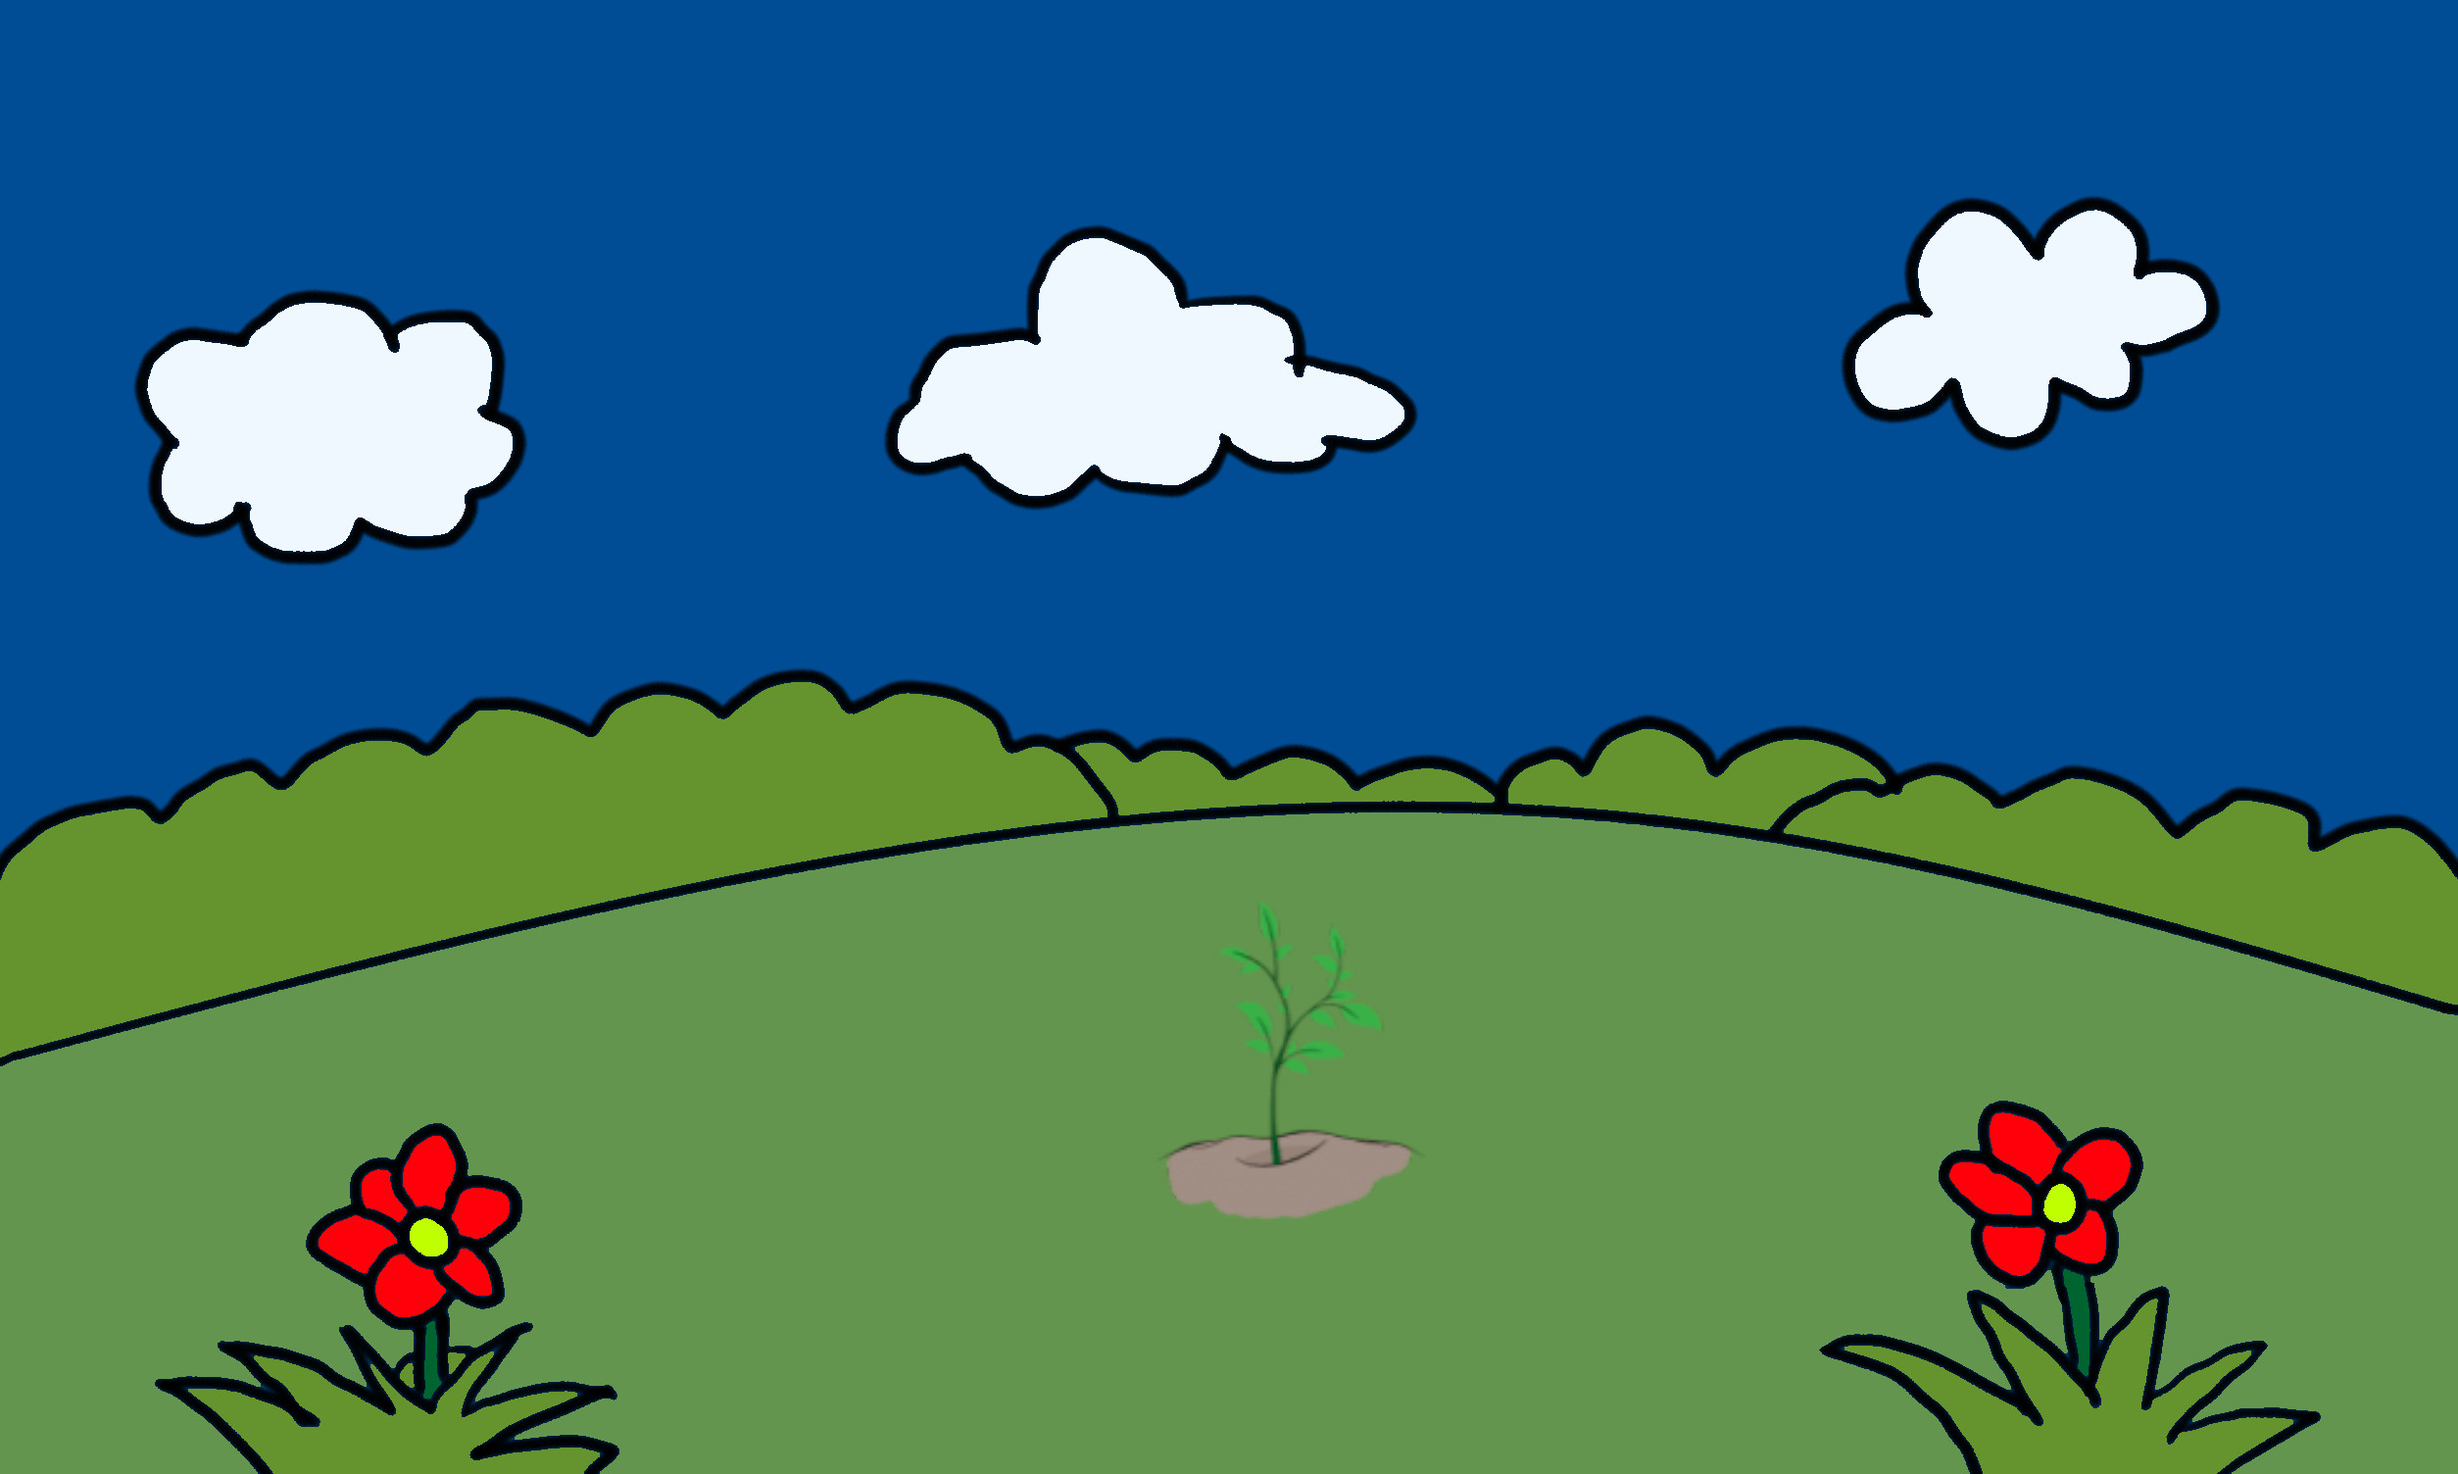
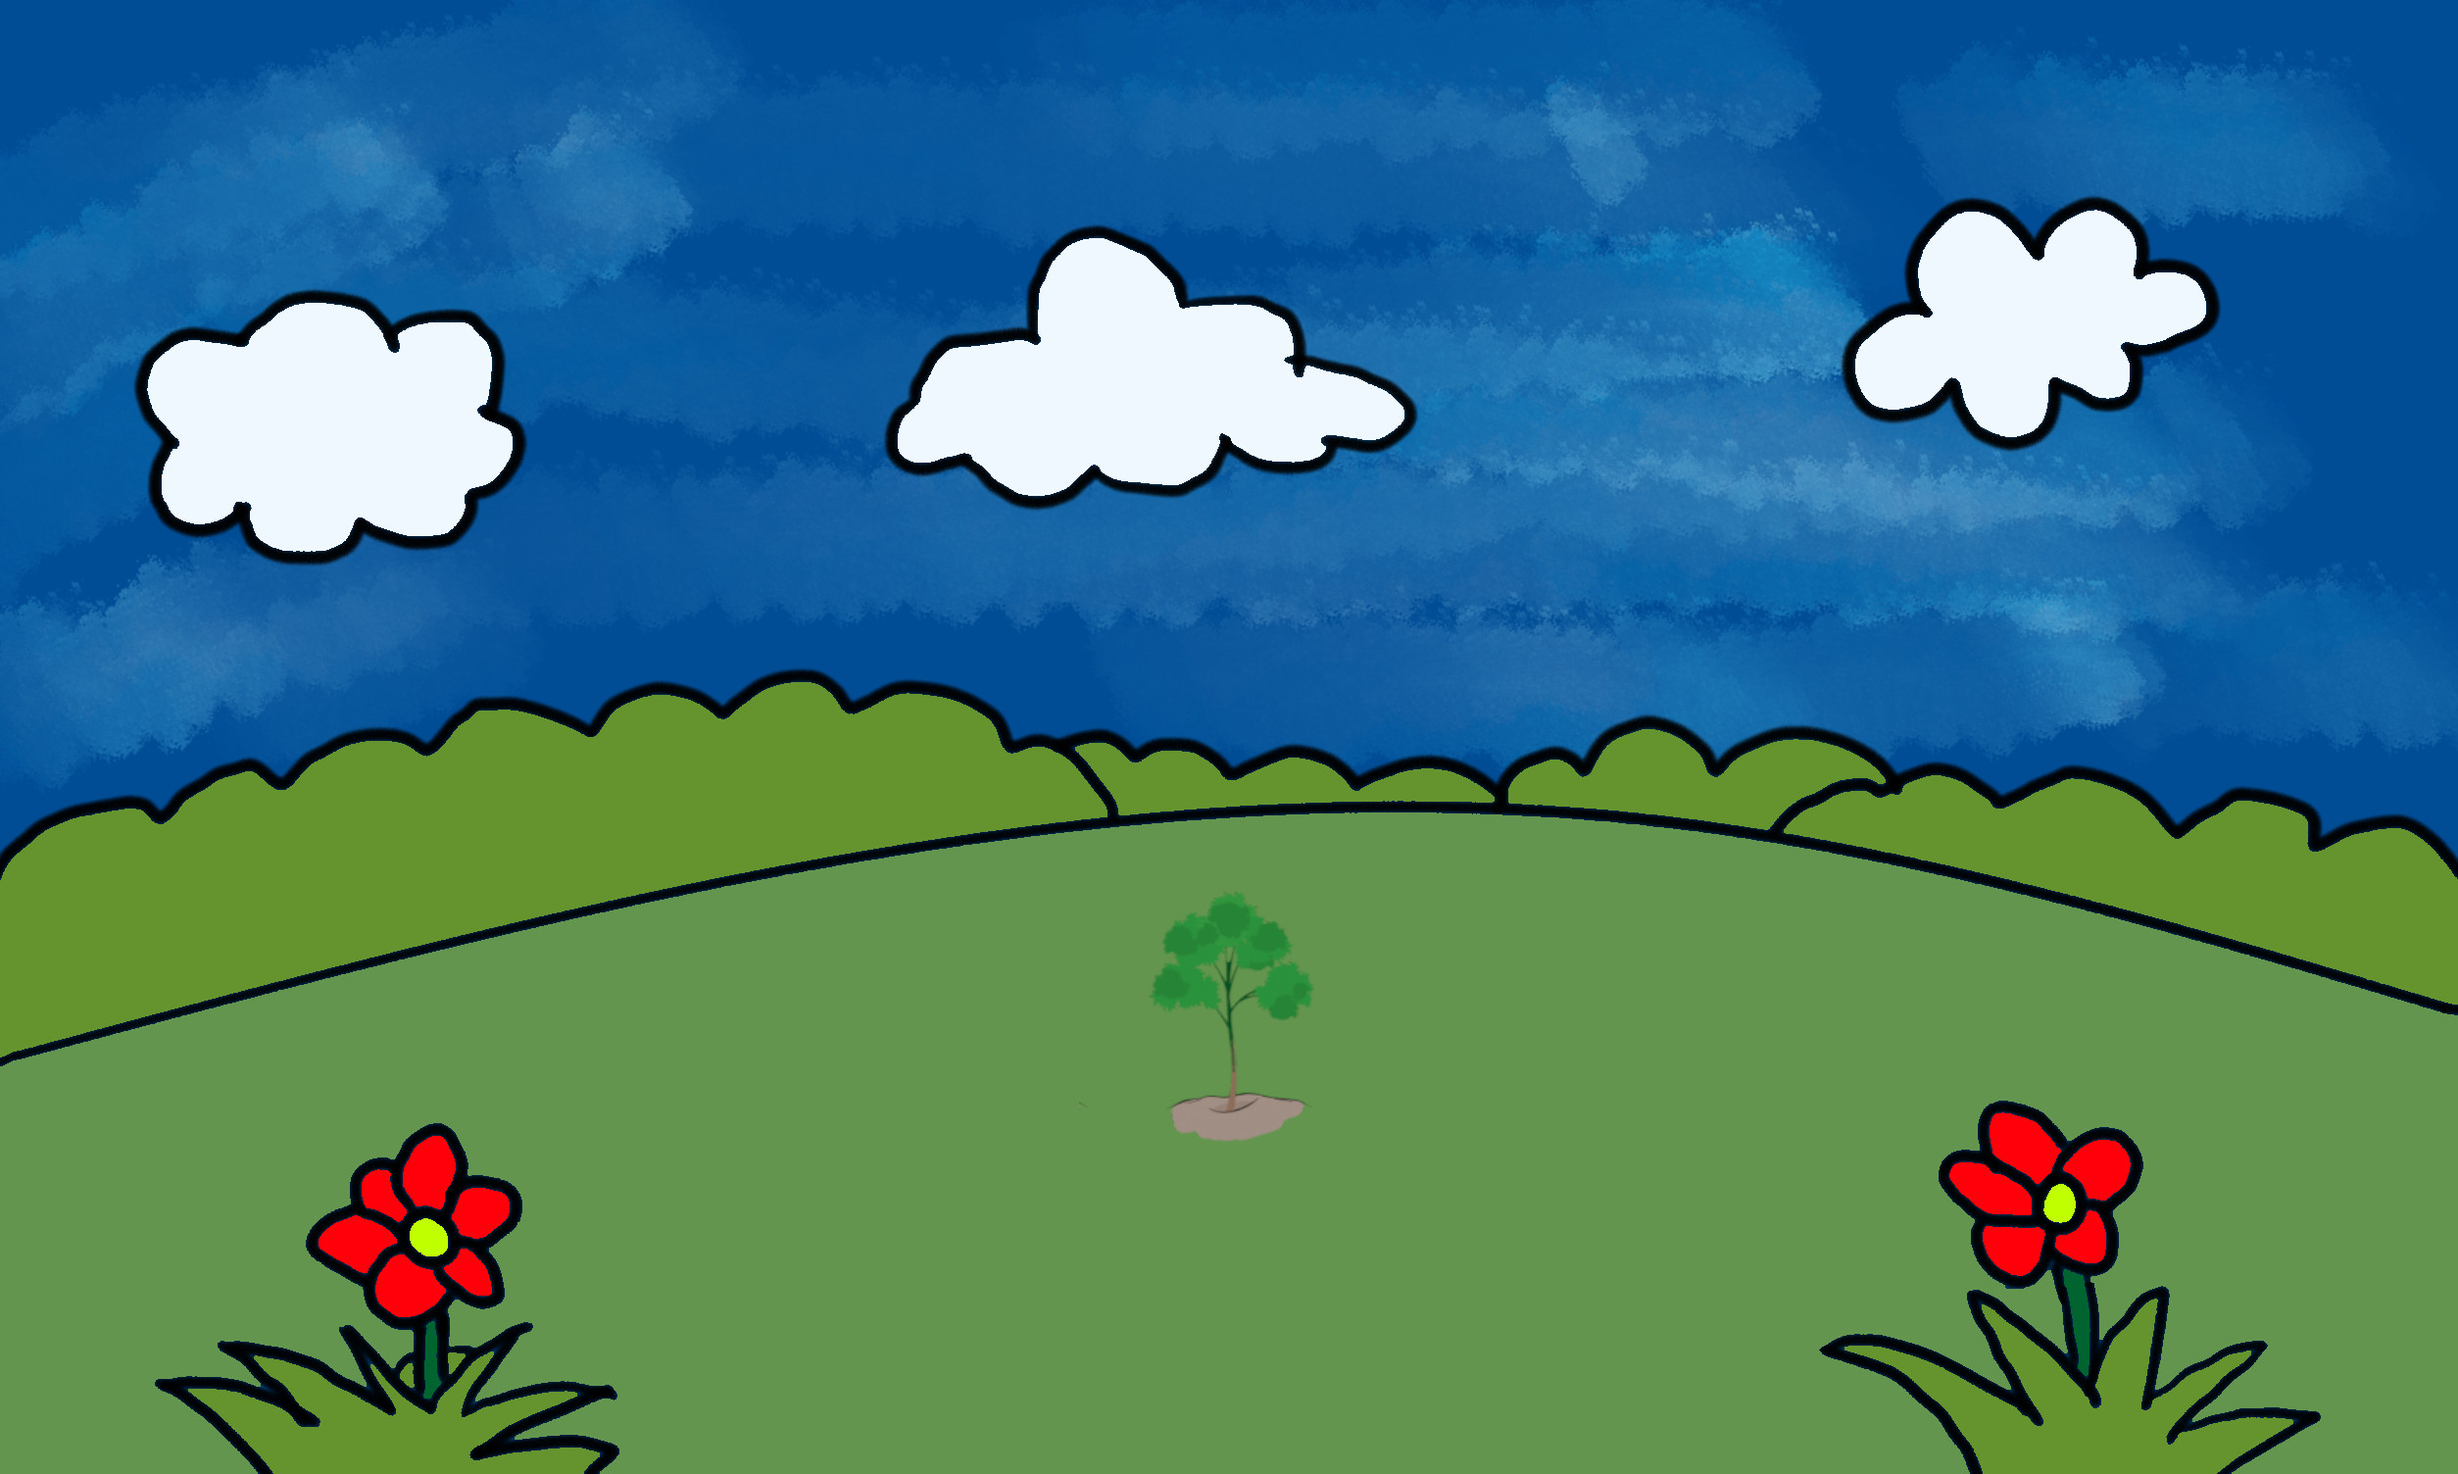
Zheng (#70)
* delete some image

* add new image

* change image name

* simplify the garden coding

diff --git a/sproutime.py b/sproutime.py
@@ -406,48 +406,21 @@ class Tabview(ctk.CTkTabview):
                 # Get the current appearance mode as "dark" or "light"
                 current_theme = ctk.get_appearance_mode().lower()
                 
-                # update image with your own image path if point >=100
-                if point >= 100 and current_theme == "dark":
-                    self.display_image(self.treeview_tab, "img/tree2_night.jpg")
+                # update image with your own image path
+                if current_theme == "dark":
+                    if point < 700:
+                        self.display_image(self.treeview_tab, f"img/tree{point // 100}_night.jpg")
+                    else:
+                        self.display_image(self.treeview_tab, "img/tree6_night.jpg")
+                        
+                elif current_theme == "light":
+                    if point < 700:
+                        self.display_image(self.treeview_tab, f"img/tree{point // 100}_day.jpg")
+                    else:
+                        self.display_image(self.treeview_tab, "img/tree6_day.jpg")
 
-                elif point >= 100 and current_theme == "light":
-                    self.display_image(self.treeview_tab, "img/tree2_day.jpg")
 
-                elif point >= 200 and current_theme == "dark":
-                    self.display_image(self.treeview_tab, "img/tree3_night.jpg")
-                    
-                elif point >= 200 and current_theme == "light":
-                    self.display_image(self.treeview_tab, "img/tree3_day.jpg")
 
-                elif point >= 300 and current_theme == "dark":
-                    self.display_image(self.treeview_tab, "img/tree4_night.jpg")
-                    
-                elif point >= 300 and current_theme == "light":
-                    self.display_image(self.treeview_tab, "img/tree4_day.jpg")
-
-                elif point >= 400 and current_theme == "dark":
-                    self.display_image(self.treeview_tab, "img/tree5_night.jpg")
-
-                elif point >= 400 and current_theme == "light":
-                    self.display_image(self.treeview_tab, "img/tree5_day.jpg")
-
-                elif point >= 500 and current_theme == "dark":
-                    self.display_image(self.treeview_tab, "img/tree6_night.jpg")
-
-                elif point >= 500 and current_theme == "light":
-                    self.display_image(self.treeview_tab, "img/tree6_day.jpg")
-
-                elif point >= 600 and current_theme == "dark":
-                    self.display_image(self.treeview_tab, "img/tree7_night.jpg")
-                    
-                elif point >= 600 and current_theme == "light":
-                    self.display_image(self.treeview_tab, "img/tree7_day.jpg")
-
-                elif point < 100 and current_theme == "dark":
-                    self.display_image(self.treeview_tab, "img/tree1_night.jpg")
-
-                else:
-                    self.display_image(self.treeview_tab, "img/tree1_day.jpg")     
 
     def update_progress(self):
         global running, app_time_update, sort_type, search_by_name, secondary_colour
